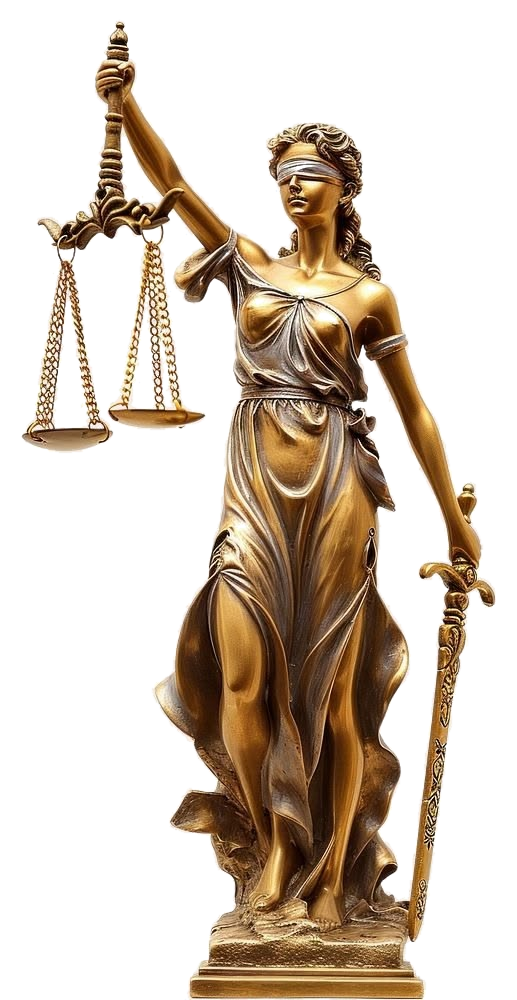
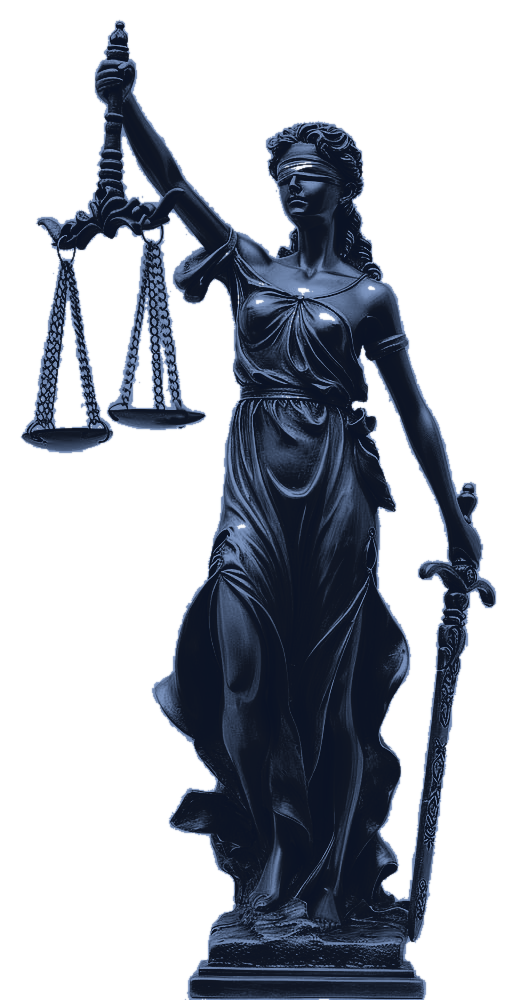
feat(landing): enlarge Lady Justice statue and apply cool steel-blue metallic tone matching reference

diff --git a/apps/frontend/src/app/page.tsx b/apps/frontend/src/app/page.tsx
@@ -43,7 +43,7 @@ export default function HomePage() {
   return (
     <div className="min-h-screen bg-[#060a17] text-white">
       {/* Hero Section */}
-      <section className="relative bg-[#060a17] text-white pt-12 pb-20 px-4 sm:px-6 lg:px-8 overflow-hidden min-h-[760px] lg:min-h-[840px] border-b border-slate-800/80">
+      <section className="relative bg-[#060a17] text-white pt-10 pb-16 px-4 sm:px-6 lg:px-8 overflow-hidden min-h-[820px] lg:min-h-[880px] xl:min-h-[940px] border-b border-slate-800/80">
         {/* Constellation Field Isolated Canvas Effect */}
         <div className="absolute inset-0 z-0">
           <ConstellationField
@@ -62,12 +62,12 @@ export default function HomePage() {
 
         {/* Ambient Radial Glow Lighting */}
         <div className="absolute top-1/4 left-1/4 -translate-x-1/2 -translate-y-1/2 w-96 h-96 bg-saffron-500/10 rounded-full blur-3xl pointer-events-none z-0" />
-        <div className="absolute top-1/3 right-1/4 -translate-y-1/2 w-[500px] h-[500px] bg-sky-500/15 rounded-full blur-3xl pointer-events-none z-0" />
+        <div className="absolute top-1/3 right-1/4 -translate-y-1/2 w-[550px] h-[550px] bg-sky-500/20 rounded-full blur-3xl pointer-events-none z-0" />
 
         <div className="max-w-7xl mx-auto relative z-10">
-          <div className="grid grid-cols-1 lg:grid-cols-12 gap-10 lg:gap-8 items-center">
+          <div className="grid grid-cols-1 lg:grid-cols-12 gap-8 lg:gap-6 items-center">
             {/* Left Column: Headline, Services & Search */}
-            <div className="lg:col-span-7 space-y-6 text-left">
+            <div className="lg:col-span-6 xl:col-span-6 space-y-6 text-left relative z-20">
               {/* Badge matching reference */}
               <div className="inline-flex items-center space-x-2 px-3.5 py-1.5 rounded-full bg-sky-500/10 border border-sky-500/25 text-sky-400 text-xs font-semibold tracking-wide backdrop-blur-md shadow-sm">
                 <Sparkles className="w-3.5 h-3.5 text-sky-400" />
@@ -192,27 +192,27 @@ export default function HomePage() {
               </div>
             </div>
 
-            {/* Right Column: Lady Justice Main Character & Floating Glass Cards */}
-            <div className="lg:col-span-5 relative flex items-center justify-center min-h-[500px] lg:min-h-[620px] select-none">
+            {/* Right Column: Prominent Enlarged Lady Justice & Floating Glass Card */}
+            <div className="lg:col-span-6 xl:col-span-6 relative flex items-end justify-center lg:justify-end min-h-[580px] lg:min-h-[760px] xl:min-h-[880px] select-none">
               {/* Radial Cyan Glow Spotlight behind Lady Justice matching reference */}
-              <div className="absolute inset-0 flex items-center justify-center pointer-events-none -z-10">
-                <div className="w-[420px] h-[520px] bg-gradient-to-tr from-sky-500/25 via-indigo-600/15 to-transparent rounded-full blur-3xl" />
+              <div className="absolute inset-0 flex items-center justify-center lg:justify-end pointer-events-none -z-10">
+                <div className="w-[540px] h-[660px] lg:w-[680px] lg:h-[820px] bg-gradient-to-tr from-sky-500/30 via-indigo-600/20 to-transparent rounded-full blur-3xl pointer-events-none" />
               </div>
 
-              {/* Lady Justice Character Image */}
-              <div className="relative z-10 flex items-center justify-center max-w-[380px] lg:max-w-[440px]">
+              {/* Enlarged Lady Justice Character Image with Blue Tone */}
+              <div className="relative z-10 flex items-end justify-center lg:justify-end w-full max-w-[500px] lg:max-w-[600px] xl:max-w-[680px]">
                 <Image
                   src="/images/lady-justice.png"
                   alt="Statue of Lady Justice - NyayaSetu India"
-                  width={440}
-                  height={680}
+                  width={680}
+                  height={1000}
                   priority
-                  className="max-h-[540px] lg:max-h-[600px] w-auto object-contain drop-shadow-[0_20px_50px_rgba(0,0,0,0.85)] filter contrast-105"
+                  className="max-h-[660px] lg:max-h-[800px] xl:max-h-[920px] w-auto object-contain drop-shadow-[0_25px_60px_rgba(0,0,0,0.95)] drop-shadow-[0_0_50px_rgba(56,189,248,0.25)]"
                 />
               </div>
 
               {/* Floating Glassmorphic Card (Bottom-Center/Left): Interactive Citizen Justice Desk */}
-              <div className="absolute bottom-4 left-0 sm:-left-6 right-4 sm:right-auto sm:w-[320px] backdrop-blur-2xl bg-slate-950/85 border border-sky-500/40 rounded-2xl p-4 shadow-[0_20px_50px_rgba(0,0,0,0.8)] z-20 text-left">
+              <div className="absolute bottom-4 lg:bottom-10 left-0 sm:-left-4 lg:-left-10 xl:-left-14 right-0 sm:right-auto sm:w-[330px] lg:w-[350px] backdrop-blur-2xl bg-slate-950/85 border border-sky-500/40 rounded-2xl p-4 shadow-[0_20px_50px_rgba(0,0,0,0.85)] z-20 text-left">
                 <div className="flex items-center space-x-2 text-sky-400 text-xs font-bold mb-2">
                   <Sparkles className="w-4 h-4 text-sky-400" />
                   <span>Citizen Legal Assistant</span>
